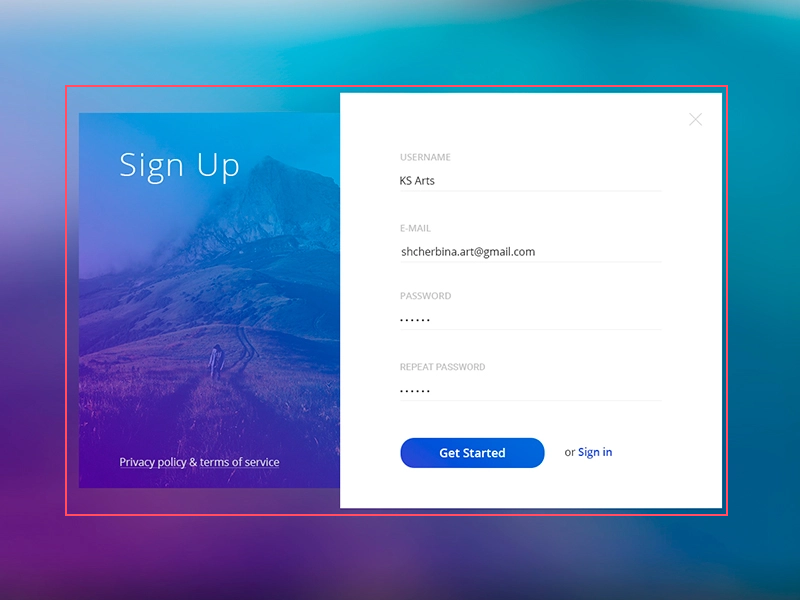
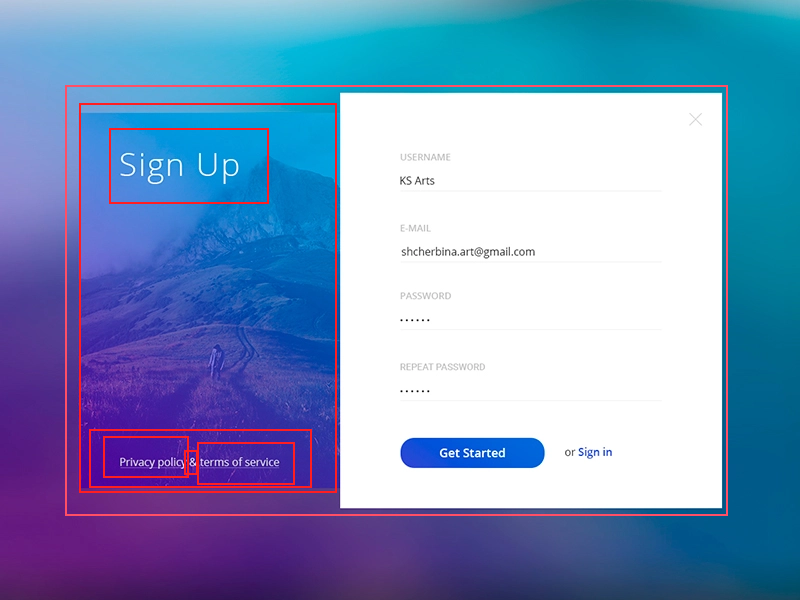
html full structure, main.css start

diff --git a/css/main.css b/css/main.css
@@ -5,9 +5,21 @@
     margin-left: calc( 50% - 300px);
     background-color: aqua;
 }
-container > .left {
+.container > .left {
     display: inline-block;
 }
+    .left > h1{
+        display: inline-block;
+    }
+    .left > .links{
+        display: inline-block;
+    }
+        .left > .links > a{
+
+        }
+        .left > links > span{
+            
+        }
 .container > .right {
     display: inline-block;
 

diff --git a/index.html b/index.html
@@ -9,7 +9,12 @@
 <body>
     <div class="container">
         <div class="left">
-            <h1> </h1>
+            <h1>Sign up</h1>
+            <div class="links">
+                <a href="#">Privacy policy</a>
+                <span>&</span>
+                <a href="#">terms of service</a>
+            </div>
         </div>
         <div class="right">
             Desine
